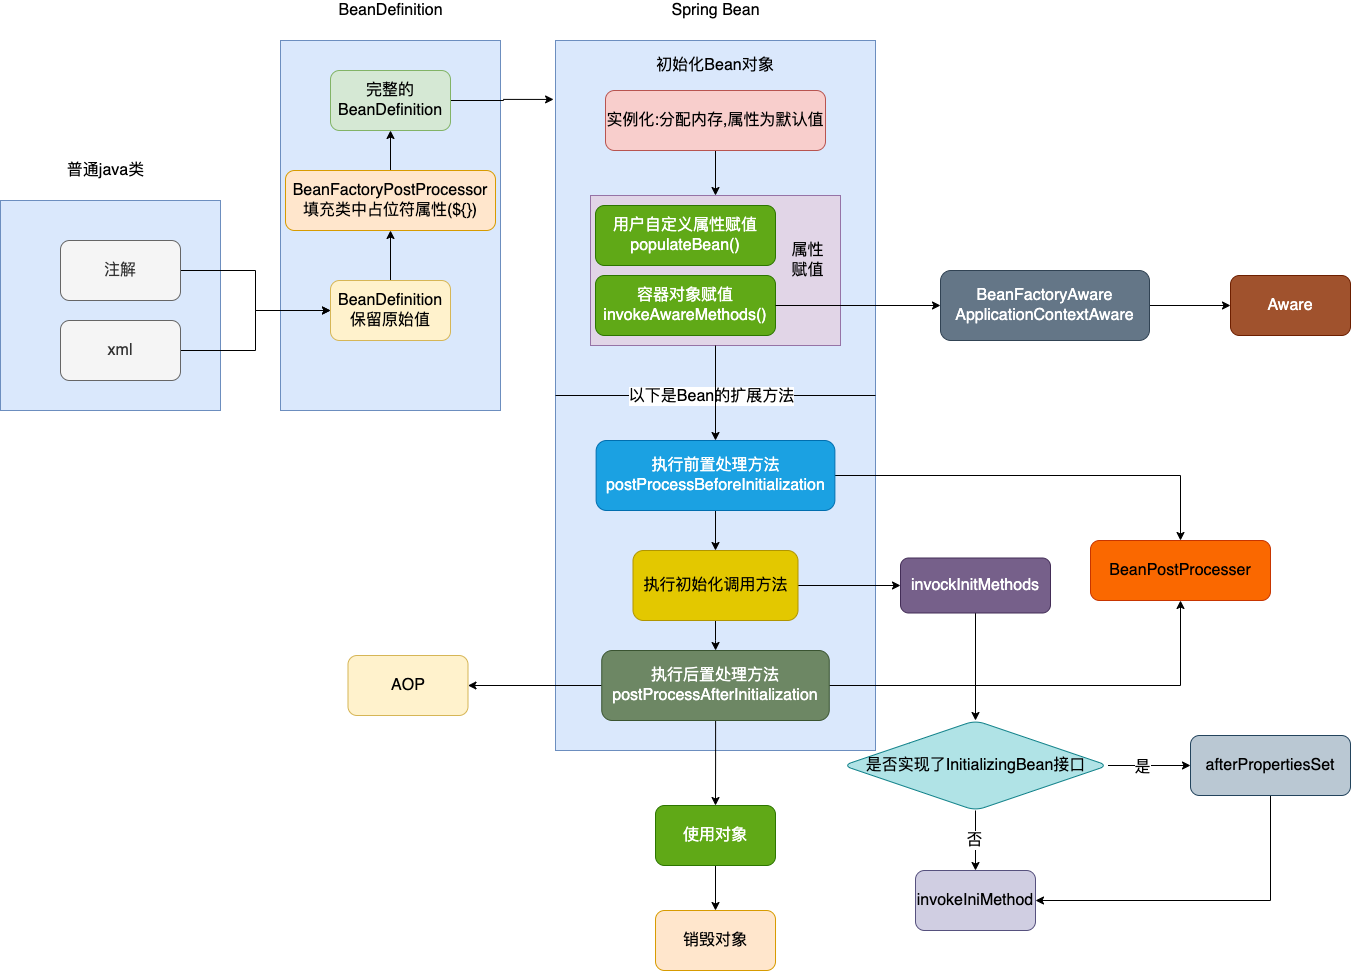
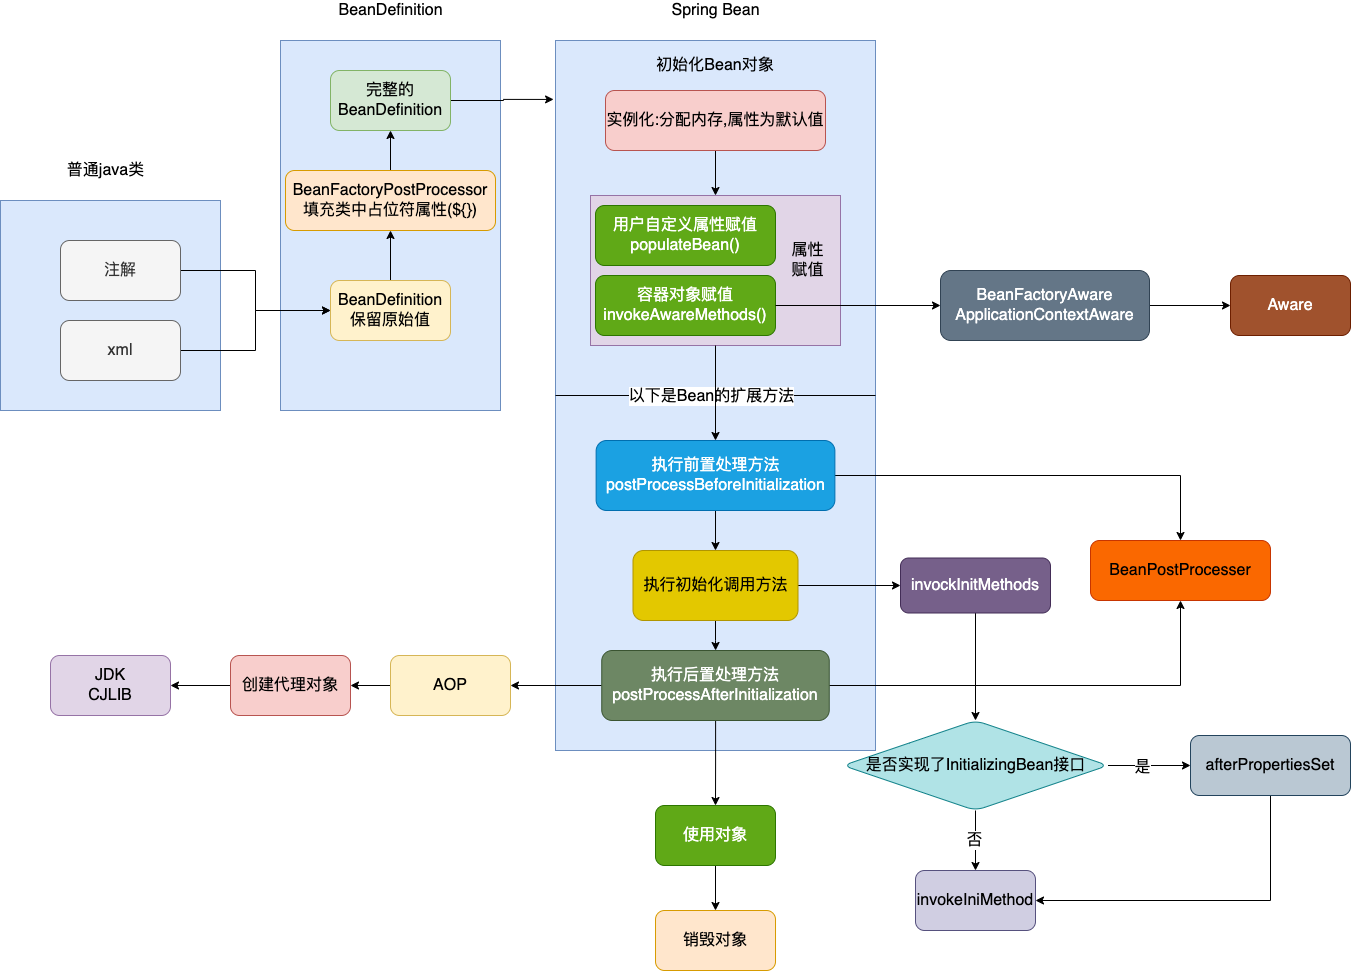
三级缓存

Changed region(s): [[0.0311, 0.6488, 0.4041, 0.7415]]

diff --git a/docs/md/idea-plugin/spring/2022-04-08-Spring三级缓存.md b/docs/md/idea-plugin/spring/2022-04-08-Spring三级缓存.md
@@ -120,14 +120,52 @@ class B {
 
 ### 3. 三级缓存
 
-三级缓存存放的是 `ObjectFactory<?>` 类型的 lambda 表达式，就是这用于处理 AOP 循环依赖的。
+三级缓存存放的是 `ObjectFactory<?>` 类型的 lambda 表达式，就是这用于处理 AOP 循环依赖的,只有执行getObject()方法的时候才会正真返回代理对象。
 
 ![img](../../../assets/img/circle-04.png)
 
 - 三级缓存主要是解决 Spring AOP 的特性。AOP 本身就是对方法的增强，是 `ObjectFactory<?>` 类型的 lambda 表达式，而 Spring 的原则又不希望将此类类型的 Bean 前置创建，所以要存放到三级缓存中处理。
 - 其实整体处理过程类似，唯独是 B 在填充属性 A 时，先查询成品缓存、再查半成品缓存，最后在看看有没有单例工程类在三级缓存中。最终获取到以后调用 getObject 方法返回代理引用或者原始引用。
 
+### 为什么要包装一层ObjectFactory对象?
 
+如果创建的Bean有对应的代理(AOP),那其他对象注入的时候,注入的应该是代理对象,但是Spring前期无法知道这个对象是不是存在循环依赖,在正常情况下(没有循环依赖),Spring都是在创建好完成品Bean后,在BeanPostProcessor中创建对应的代理对象.
+
+那么存在循环依赖的情况下Spring有两个选择:
+
+1. 不管有没有循环依赖,都提前创建好代理对象,并将代理对象放入缓存中,当出现循环依赖时,其他对象直接获取到缓存中的代理对象并注入
+2. 不提前创建好对象,只有出现循环依赖的时候才实时生成代理对象,这样在没有循环依赖的情况下,Bean就可以按照Spring的设计原则的步骤来创建
+
+Spring使用的是第二种方案,在对象外面包一层ObjectFactory,提前曝光的是ObjectFactory对象,在被注入的时候才在ObjectFactory.getObject()方法中生成代理对象,并将生成好的代理对象放入到第二级缓存中(避免多次调用getObject()),并删除三级缓存中的对象;
+
+### 为什么需要三级缓存,直接使用第二种方案生成代理对象放入代理对象中不可以吗?
+
+如果使用二级缓存的话,需要在Bean在实例化后就需要创建代理对象,这就`违背了Spring的设计原则`
+
+Spring结合AOP和Bean的生命周期,是在Bean创建完成后,在BeanPostProcessor的after方法中完成对Bean的代理,如果按照方案二的话,没有出现循环依赖的情况下,Bean还是会在实例化后创建了一个代理对象,但是Bean的生命周期是在最后才创建的代理对象,违背了设计原则.
+
+## 总结
+
+如果对象A和对象B循环依赖,并且都有代理对象(AOP),那么创建的顺序就是:
+
+1. A实例化后(半成品)放入三级缓存
+2. A填充属性B =>B实例化后(半成品)放入三级缓存
+3. B填充属性A => 以此从一、二、三级缓存中查找A对象 => 从三级缓存中找到A对象,创建A代理对象并放入二级缓存中,删除三级缓存中的A对象 => B注入A的代理对象
+4. 创建B对象完成 => 从三级缓存中删除B对象,生成B代理对象放入一级缓存中
+5. A半成品注入B代理对象
+6. 从二级缓存中删除A代理对象,A代理对象加入一级缓存
+
+
+
+https://developer.aliyun.com/article/766880#comment
+
+面试官：”Spring是如何解决的循环依赖？“
+
+答：Spring通过三级缓存解决了循环依赖，其中一级缓存为单例池（`singletonObjects`）,二级缓存为早期曝光对象`earlySingletonObjects`，三级缓存为早期曝光对象工厂（`singletonFactories`）。当A、B两个类发生循环引用时，在A完成实例化后，就使用实例化后的对象去创建一个对象工厂，并添加到三级缓存中，如果A被AOP代理，那么通过这个工厂获取到的就是A代理后的对象，如果A没有被AOP代理，那么这个工厂获取到的就是A实例化的对象。当A进行属性注入时，会去创建B，同时B又依赖了A，所以创建B的同时又会去调用getBean(a)来获取需要的依赖，此时的getBean(a)会从缓存中获取，第一步，先获取到三级缓存中的工厂；第二步，调用对象工工厂的getObject方法来获取到对应的对象，得到这个对象后将其注入到B中。紧接着B会走完它的生命周期流程，包括初始化、后置处理器等。当B创建完后，会将B再注入到A中，此时A再完成它的整个生命周期。至此，循环依赖结束！
+
+面试官：”为什么要使用三级缓存呢？二级缓存能解决循环依赖吗？“
+
+答：如果要使用二级缓存解决循环依赖，意味着所有Bean在实例化后就要完成AOP代理，这样违背了Spring设计的原则，Spring在设计之初就是通过`AnnotationAwareAspectJAutoProxyCreator`这个后置处理器来在Bean生命周期的最后一步来完成AOP代理，而不是在实例化后就立马进行AOP代理。
 
 参考:
 

diff --git a/docs/md/idea-plugin/spring/2022-4-15-Spring中Bean的生命周期.md b/docs/md/idea-plugin/spring/2022-4-15-Spring中Bean的生命周期.md
@@ -133,10 +133,13 @@ Spring bean的生命周期可以分为四个阶段和多个扩展点
 
 #### 四个阶段:
 
-- 实例化:分配内存空间f
-- 属性赋值:自定义属性赋值,容器对象赋值
-- 初始化
-- 销毁
+- 实例化:分配内存空间
+- 属性赋值:自定义属性赋值,容器对象赋值(执行实现Aware接口的容器属性赋值)
+- 初始化:
+  - BeanPostProcessor#Before:没有做其他处理
+  - 初始化:判断是否实现initliazingBean接口,实现了则执行afterPropertySet方法,然后执行自定义init方法
+  - BeanPostProcessor#After:判断该bean是否需要动态代理,需要的话返回代理对象
+- 销毁:停止系统自动销毁
 
 #### 多个扩展点:
 
